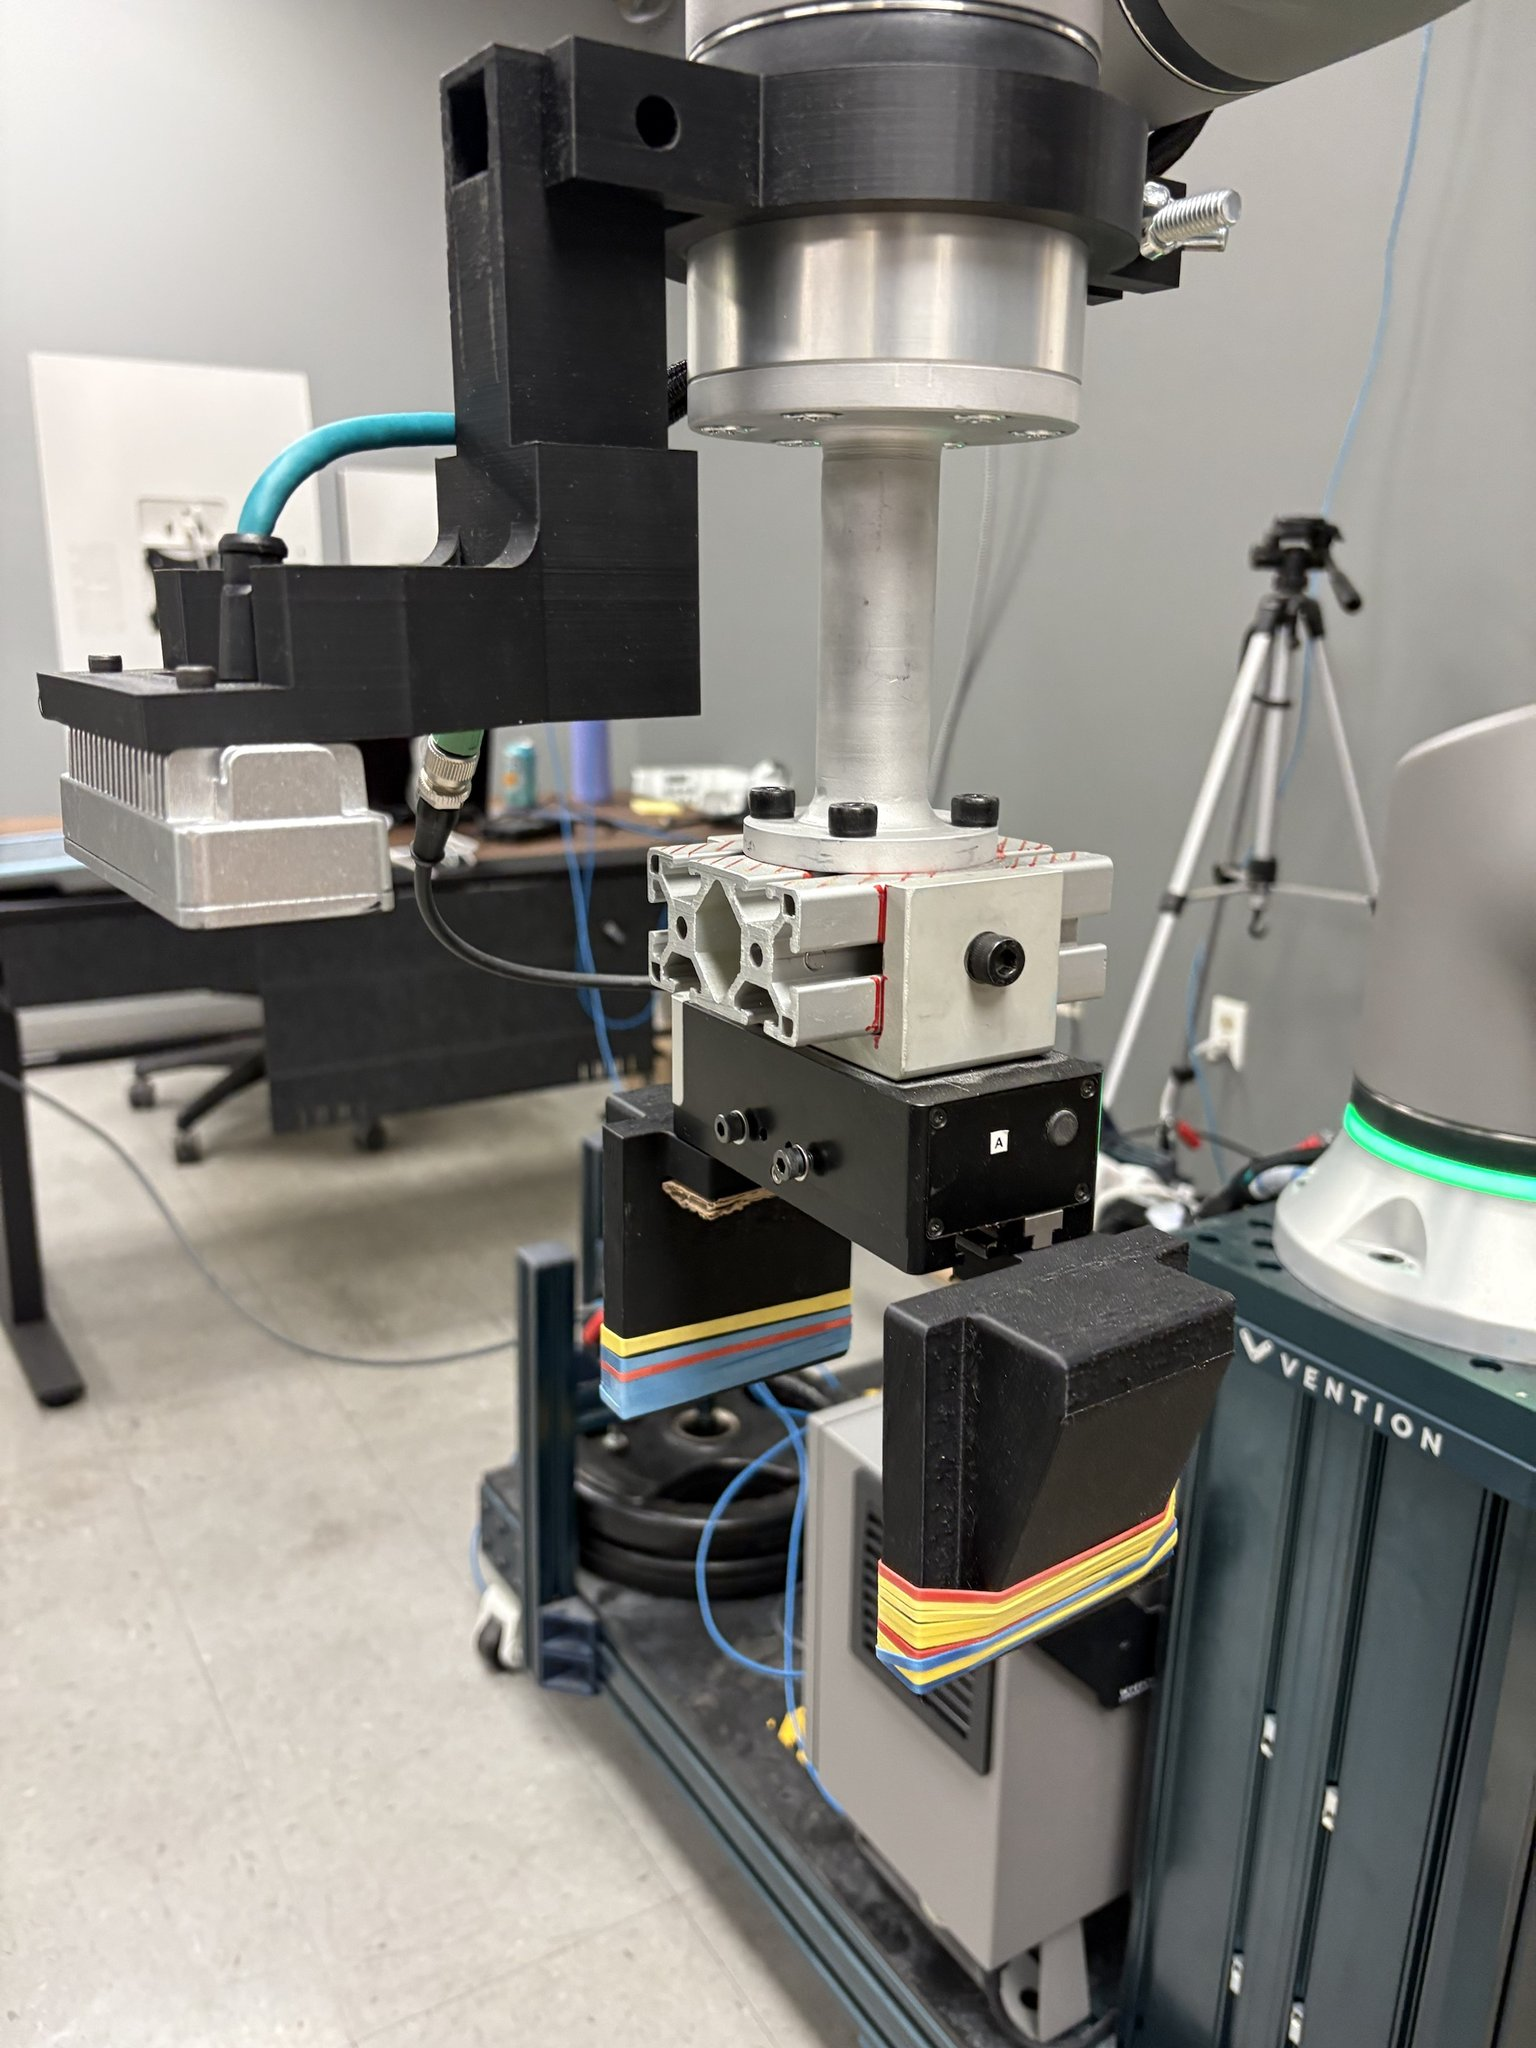
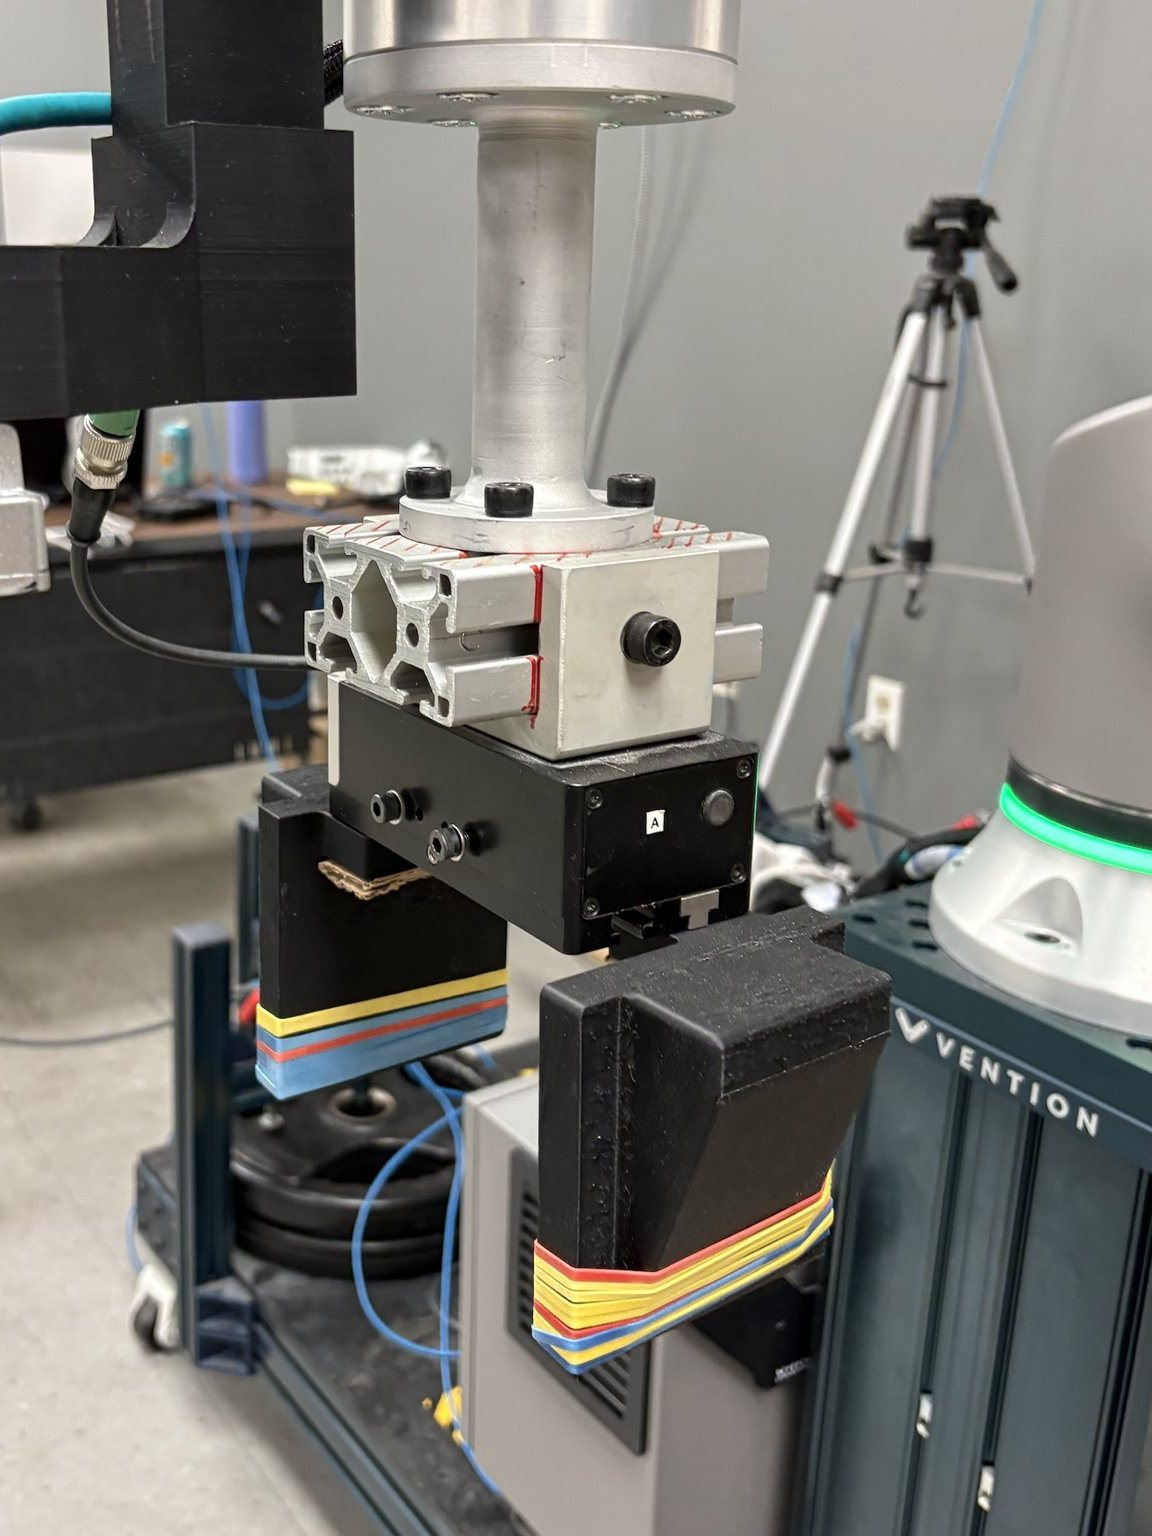
Add the gripper CAD images and match all three crops
The RoBIM Gripper Attachment section now shows the CAD model from the
front and the back next to the photo on the robot. All three images are
cropped to 3:4 so they fill matching slots, and the photo is framed
tighter on the gripper.

diff --git a/index.html b/index.html
@@ -2920,27 +2920,29 @@
                 </div>
             </div><!-- /project -->
 
-            <!-- GRIPPER ATTACHMENT: swap each .ph placeholder for an <img>
-                 once the CAD screenshot and photo are added -->
+            <!-- GRIPPER ATTACHMENT: all three images are cropped to 3:4 to fill their slots -->
             <div class="project" id="robim-gripper">
                 <h2 class="project-title">Gripper Attachment</h2>
                 <div class="stack">
                     <span class="tag">SolidWorks</span>
                 </div>
 
-                <div class="img-grid cols-2">
+                <div class="img-grid cols-3">
                     <div>
-                        <div class="img-slot" style="aspect-ratio: 4/3;">
-                            <span class="ph">
-                                <svg class="ph-icon" viewBox="0 0 24 24" fill="none" stroke="currentColor" stroke-width="1.5" stroke-linecap="round" stroke-linejoin="round" aria-hidden="true"><rect x="3" y="4.5" width="18" height="15" rx="2"/><circle cx="8.5" cy="9.5" r="1.5"/><path d="m21 15-5-5L5 19.5"/></svg>
-                                <span class="ph-label">Coming soon</span>
-                            </span>
+                        <div class="img-slot" style="aspect-ratio: 3/4;">
+                            <img src="Images/RoBIM Gripper CAD Front.png" alt="SolidWorks model of the gripper attachment, front" style="height: 100%; object-fit: cover;">
                         </div>
-                        <p class="img-caption">CAD model</p>
+                        <p class="img-caption">CAD model, front</p>
                     </div>
                     <div>
-                        <div class="img-slot" style="aspect-ratio: 4/3;">
-                            <img src="Images/RoBIM Gripper On Robot.jpg" alt="Gripper attachment on the robot" style="height: 100%; object-fit: contain;">
+                        <div class="img-slot" style="aspect-ratio: 3/4;">
+                            <img src="Images/RoBIM Gripper CAD Back.png" alt="SolidWorks model of the gripper attachment, back" style="height: 100%; object-fit: cover;">
+                        </div>
+                        <p class="img-caption">CAD model, back</p>
+                    </div>
+                    <div>
+                        <div class="img-slot" style="aspect-ratio: 3/4;">
+                            <img src="Images/RoBIM Gripper On Robot.jpg" alt="Gripper attachment on the robot" style="height: 100%; object-fit: cover;">
                         </div>
                         <p class="img-caption">On the robot</p>
                     </div>

diff --git a/_docs/handoff-robim-toyota.md b/_docs/handoff-robim-toyota.md
@@ -1,11 +1,11 @@
 # Handoff: RoBIM and Toyota pages
 
-Snapshot as of 2026-10-30. The rules for building internship pages are in `_docs/internship-layout.md`; this file is the state of the two pages built so far, and why they look the way they do. Update it when that changes.
+Snapshot as of 2026-10-31. The rules for building internship pages are in `_docs/internship-layout.md`; this file is the state of the two pages built so far, and why they look the way they do. Update it when that changes.
 
 ## Status
 
-- Both pages are finished except one image. The Gripper Attachment section on RoBIM still shows "Coming soon" in its CAD model slot, waiting on the user's CAD image.
-- Everything was pushed and went live on 2026-10-30, with the CAD slot still showing "Coming soon". When the image arrives, add it the way the guide's Media section describes, and commit. Push only when the user asks, since a push deploys johnsonyep.com.
+- Both pages are finished. On 2026-10-31 the two CAD screenshots of the gripper attachment were added to RoBIM's Gripper Attachment section, and all three of its images (two CAD views and the photo) were cropped to 3:4 so they match.
+- The pages went live on 2026-10-30. The CAD images are committed locally; push only when the user asks, since a push deploys johnsonyep.com.
 - `_config.yml` keeps `CLAUDE.md` off the website.
 
 ## Where things live in `index.html`
@@ -32,7 +32,7 @@ Search for these:
 - **Projects:**
   - Survey Scan: a 9-step stepper.
   - Pick and Place: a 5-step stepper.
-  - Gripper Attachment: the photo on the robot, plus the CAD slot waiting for its image.
+  - Gripper Attachment: three 3:4 images in a row: the CAD model from the front and the back, then the photo on the robot. The CAD screenshots were enlarged to 768×1024 so they open at the same size as the photo in the zoom view.
 - **Diagrams:** RoBIM's 14 diagrams were drawn with an earlier generator that wasn't kept. Edit their SVG in place, or redraw one with `_docs/diagram_kit.py`.
 - **Content rules:** RoBIM has confidentiality rules for what the write-up may say. They're in the session's private memory, not in this public repo. Check them before editing RoBIM text, and ask the user if they aren't available.
 
